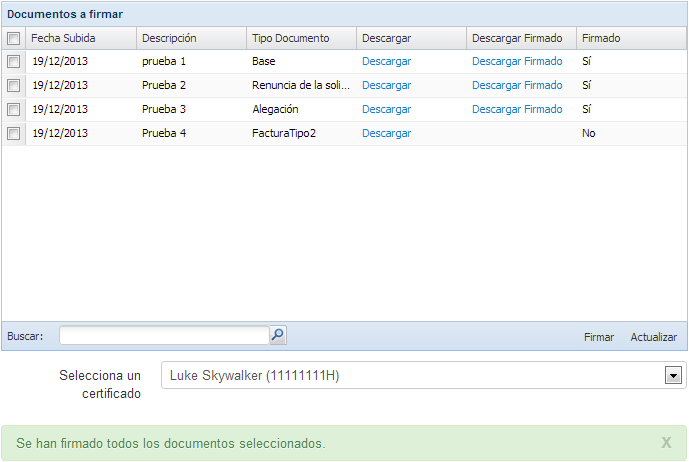
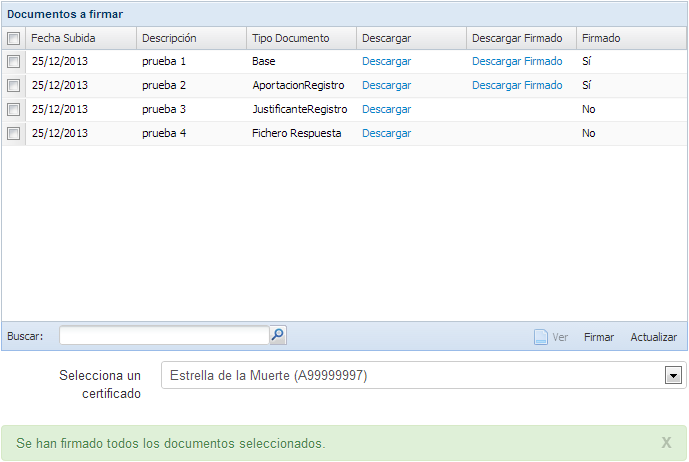
+ Añadida opción ver detalles documento firmado mediante popup en firma de múltiples documentos

diff --git a/fap/app/views/tags/fap/firmaMultiple.html b/fap/app/views/tags/fap/firmaMultiple.html
@@ -328,51 +328,31 @@
 	    		icon: '@{'/public/images/table-leer.png'}',
 	    		disabled:true,
 	    		handler : function(){
-	    			var selected_id = grid.getSelectionModel().getSelection()[0].data.id;
-	    			#{if popupLeer}
-	    				popup_open(
-	    					"${popupLeer}_popup",
-	    					replaceId("${urlLeer}", "_${_idEntidad}_", selected_id)
-						)
-					#{/if}
-			   		#{else}
-						#{if saveBefore && saveEntity && !"leer".equals(primeraAccionMock)}
-	    					var urlBeforeOpenPageTableLeer = replaceAmpersand("${mUrlBeforeOpenPageTable}")+replaceId("${urlLeer}", "_${_idEntidad}_", selected_id).replace(/&/g, "@");
-	    					alert("${urlLeer} \n\n "+urlBeforeOpenPageTableLeer);
-    						$('#${id}').closest('form').attr("action",urlBeforeOpenPageTableLeer).submit();
+	    			var selected = grid.getSelectionModel().getSelection();
+	    			if (selected.length == 1) {
+			    		var selected_id = grid.getSelectionModel().getSelection()[0].data.id;
+		    			#{if popupLeer}
+		    				popup_open(
+		    					"${popupLeer}_popup",
+		    					replaceId("${urlLeer}", "_${_idEntidad}_", selected_id)
+							)
 						#{/if}
-						#{else}
-							window.location.href = replaceId("${urlLeer}", "_${_idEntidad}_", selected_id);
+				   		#{else}
+							#{if saveBefore && saveEntity && !"leer".equals(primeraAccionMock)}
+		    					var urlBeforeOpenPageTableLeer = replaceAmpersand("${mUrlBeforeOpenPageTable}")+replaceId("${urlLeer}", "_${_idEntidad}_", selected_id).replace(/&/g, "@");
+		    					alert("${urlLeer} \n\n "+urlBeforeOpenPageTableLeer);
+	    						$('#${id}').closest('form').attr("action",urlBeforeOpenPageTableLeer).submit();
+							#{/if}
+							#{else}
+								window.location.href = replaceId("${urlLeer}", "_${_idEntidad}_", selected_id);
+							#{/else}
 						#{/else}
-					#{/else}
+		    		} else {
+		    			mensajes.error('Debe seleccionar sólo un documento.');
+					}
 	    		}
 		    });
-			
-		    var readRow = new Ext.create('Ext.grid.plugin.Editing', {
-		    	clicksToEdit: 2,
-				startEdit: function(record, columnHeader) {
-    				var selected_id = grid.getSelectionModel().getSelection()[0].data.id;
-    				var registro = store${id}.getAt(store${id}.find("id", selected_id));
-		    		if (!registro.get("permisoEditar") && registro.get("permisoLeer")){	
-    				#{if popupLeer}
-			   			popup_open(
-			   				"${popupLeer}_popup",
-			   				replaceId("${urlLeer}", "_${_idEntidad}_", selected_id)
-			   			);
-			   		#{/if}
-					#{else}
-						#{if saveBefore && saveEntity}
-	    					var urlBeforeOpenPageTableLeer = replaceAmpersand("${mUrlBeforeOpenPageTable}")+replaceId("${urlLeer}", "_${_idEntidad}_", selected_id).replace(/&/g, "@");
-    						$('#${id}').closest('form').attr("action",urlBeforeOpenPageTableLeer).submit();
-						#{/if}
-						#{else}
-							window.location.href = replaceId("${urlLeer}", "_${_idEntidad}_", selected_id);
-						#{/else}
-					#{/else}
-            		}
-				}
-			});
-			
+
 		    #{/if}
 
 // ---------- ---------- ---------- ---------- ---------- ---------- ---------- ----------
@@ -381,6 +361,7 @@
 
 		    var boton_firmar = new Ext.Button({
 		    	text: "Firmar",
+		    	disabled:true,
 		    	handler : function(){
 		    		popupWait_open();
 					var i;
@@ -439,6 +420,9 @@
 			    			mensajes.error('No se han firmado todos los documentos seleccionados.');
 		    			}
 		    		}
+		    		if(grid.getSelectionModel().hasSelection()) {
+		    			grid.getSelectionModel().deselectAll();
+		    		}
 		    		// Se actualiza contenido de la tabla
 		    		popupWait_close();
 					grid.body.mask("Cargando....");
@@ -482,6 +466,7 @@
 			            this.selectedRecords.push(newRecordsToSelect);
 
 			        this.getView().saveScrollState();
+			        boton_firmar.setDisabled(false);
 			    },
 			    delSelected: function(recordToDelete) {
 			    	Ext.Array.remove(this.selectedRecords, recordToDelete);
@@ -493,11 +478,6 @@
 
 				    this.getSelectionModel().select(this.selectedRecords, true);
 			    },
-			    #{if urlLeer}
-				plugins: [
-					readRow
-				],
-	            #{/if}
 				dockedItems: [
 					{
 						itemId: 'barraInferior',
@@ -597,16 +577,22 @@
 		    });
 		    
 		    grid.addListener("selectionchange", function(){
-		    	if ( grid.getSelectionModel().hasSelection()){
+		    	if (grid.getSelectionModel().hasSelection()){
 		    		var registro = store${id}.getAt(store${id}.find("id", grid.getSelectionModel().getSelection()[0].data.id));
 		    		#{if urlLeer}
-		    		boton_leer.setDisabled(!registro.get("permisoLeer"));
+		    		if (grid.getSelectionModel().getSelection().length == 1) {
+		    			boton_leer.setDisabled(!registro.get("permisoLeer"));
+		    		} else {
+		    			boton_leer.setDisabled(true);
+		    		}
 			    	#{/if}
+			    	boton_firmar.setDisabled(false);
 		    	}
 		    	else{
 		    		#{if urlLeer}
 		    		boton_leer.setDisabled(true);
 			    	#{/if}
+			    	boton_firmar.setDisabled(true);
 		    	}
 		    });
 

diff --git a/fap/app/services/filesystem/FileSystemFirmaServiceImpl.java b/fap/app/services/filesystem/FileSystemFirmaServiceImpl.java
@@ -7,6 +7,7 @@ import java.util.List;
 import javax.inject.Inject;
 
 import org.apache.log4j.Logger;
+import org.joda.time.DateTime;
 
 import controllers.fap.FirmaController;
 
@@ -145,6 +146,11 @@ public class FileSystemFirmaServiceImpl implements FirmaService {
 	
 	@Override
 	public void firmar(Documento documento, List<Firmante> firmantes, String firma, String valorDocumentofirmanteSolicitado){
+//		int i = 0;
+//		Firmante firmante = firmantes.get(i);
+//		play.Logger.info("Archivo: FileSystemFirmaServiceImpl.java | Método: firmar | Nota: No se está firmando. Sólo se cambia la fecha de firma del firmante "+i+": "+firmante.idvalor);
+//		firmante.fechaFirma = new DateTime();
+//		firmante.save();
 	}
 
 	@Override
